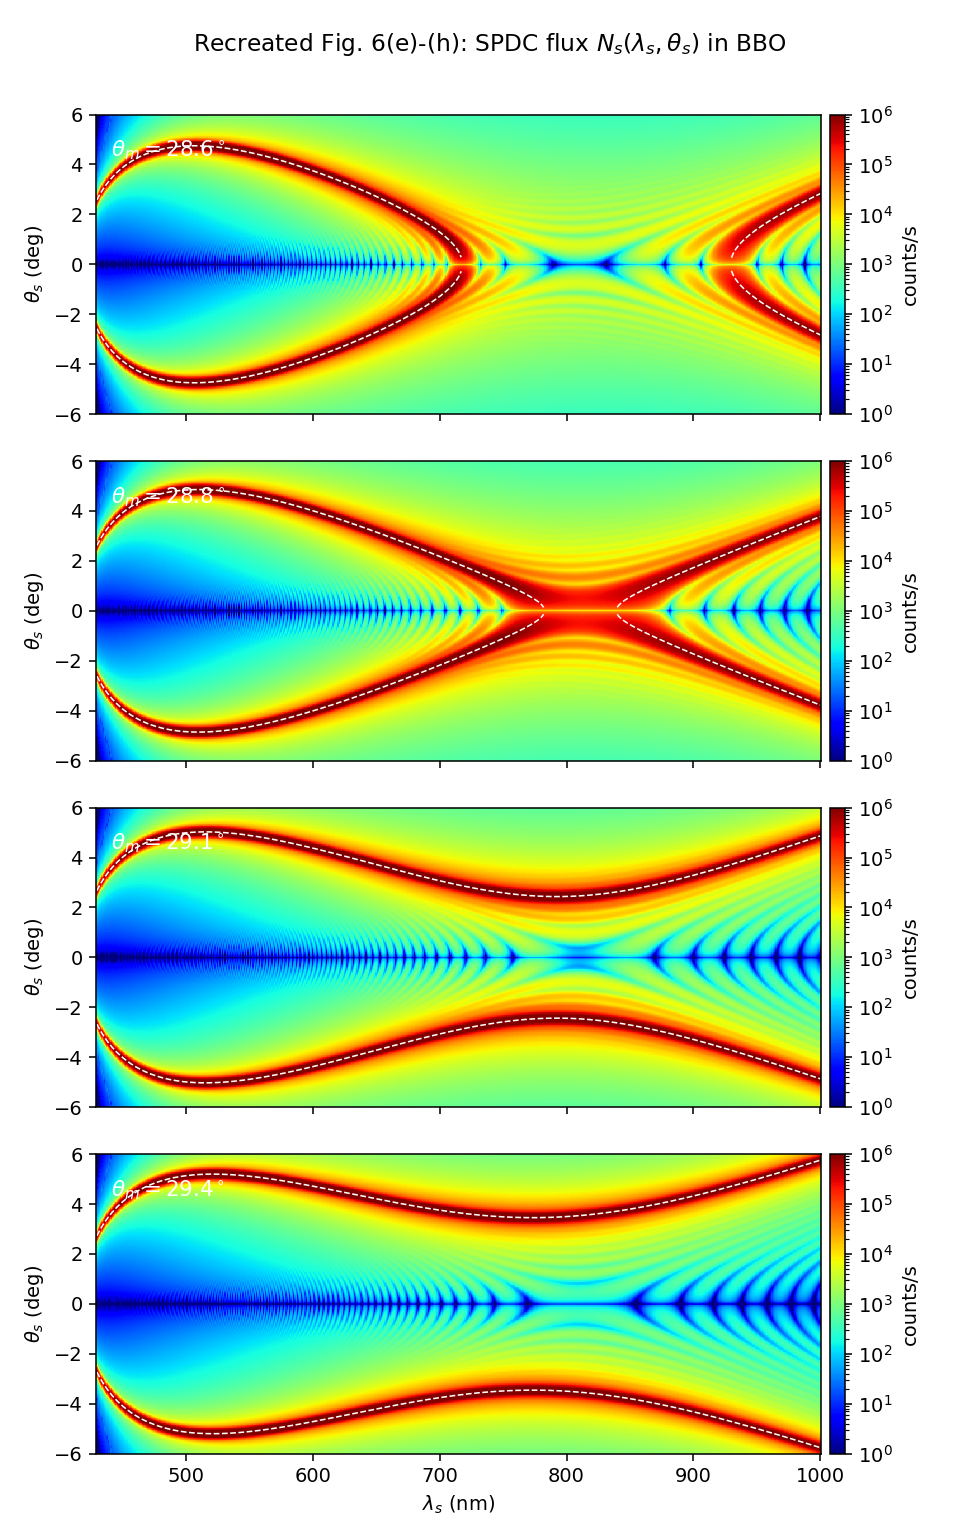
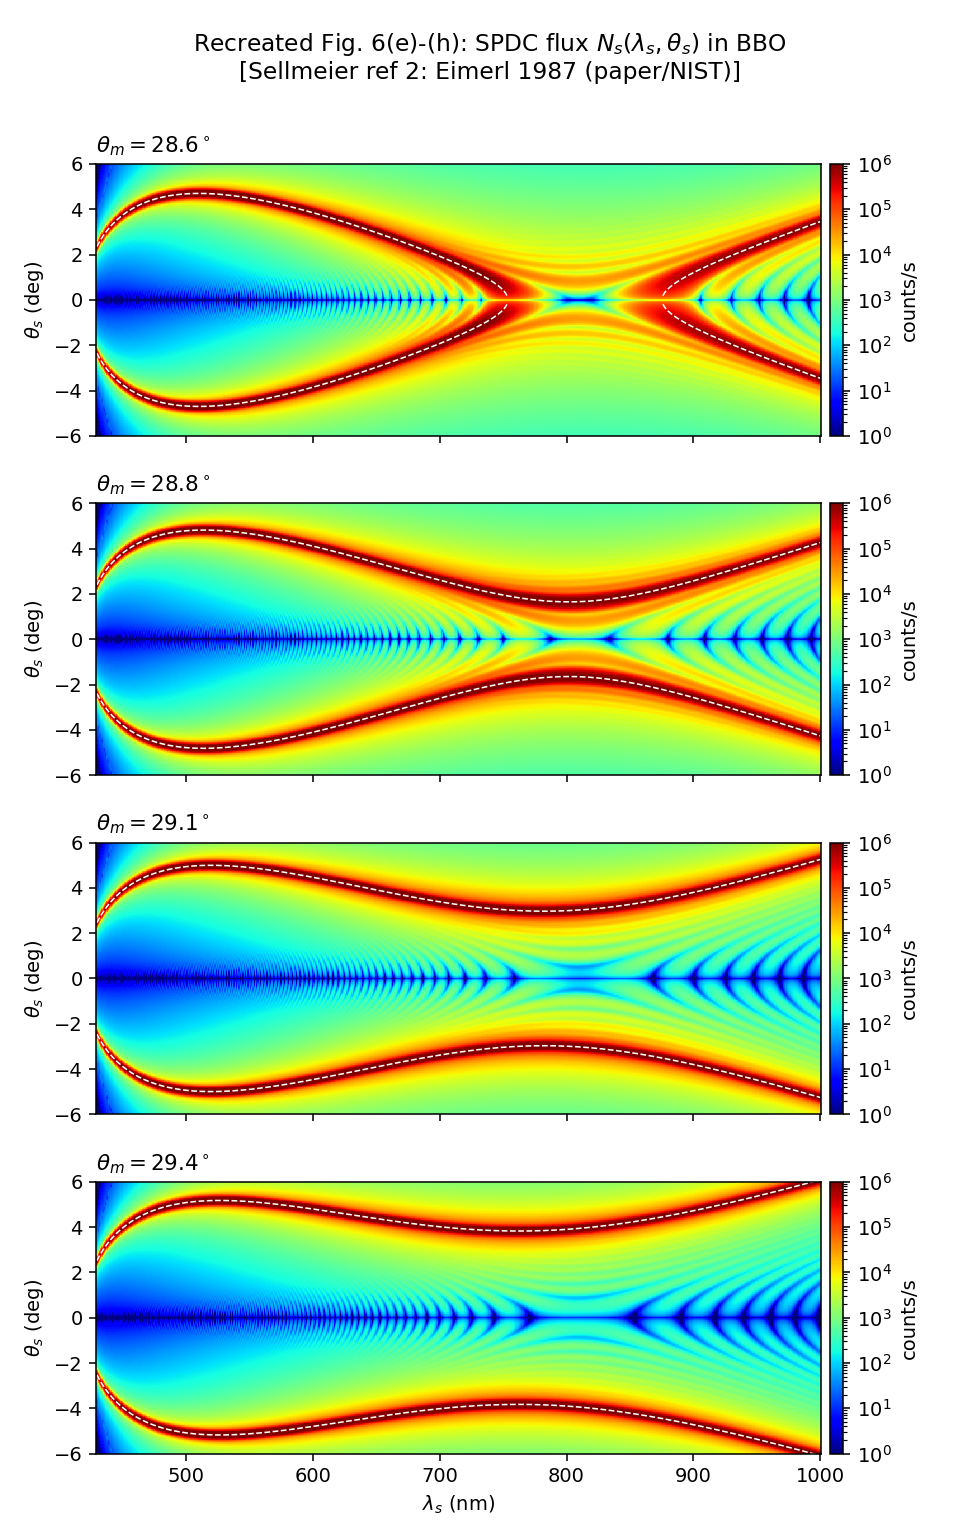
Calculations: selectable BBO Sellmeier refs + tee'd text summaries
Sellmeier: the paper's indices are Eimerl 1987 (via the NIST phase-matching
program, its refs [17]/[25]; confirmed by Table I np = 1.6612 to 5 digits),
not the Kato 1986 set used here -- this fully explains the Fig. 6(e)
discrepancy (28.6 deg collinear pair 754/875 nm vs 718/929 nm).
spdc_physics.py now holds both sets in SELLMEIER_REFS with use_sellmeier():
ref 1 Kato (default; agrees with Tamosauskas 2018 to ~1e-4 at 405/810 nm)
and ref 2 Eimerl (paper-matching). plot_fig6.py writes two variants --
spdc_fig6.png (Eimerl, matches the published panels) and spdc_fig6_kato.png;
theta_m labels moved to black titles above each panel. All other scripts
stay on Kato and reproduce their previous numbers exactly; every script
stamps the active set into its output.

textlog.py (2026-07-16): tee_stdout() context manager; each runnable
script's printed summary is also written to output/<figure>.txt.

diff --git a/calculations/src/spdc_physics.py b/calculations/src/spdc_physics.py
@@ -106,18 +106,62 @@ Np      = Pp / (hbar * omega_p)  # pump photon flux, /s (paper Fig. 6: 1.63e17)
 
 # ----------------------------------------------------------------------------
 # BBO refractive indices -- Sellmeier equations (lambda in MICROMETRES inside)
+#
+# Two selectable coefficient sets ("references"):
+#   ref 1, "kato"   -- Kato 1986 (IEEE JQE 22, 1013).  DEFAULT.  More accurate
+#                      at 405/810 nm: agrees with the modern measurement
+#                      (Tamosauskas et al. 2018, Opt. Mater. Express 8, 1410)
+#                      to ~1-2e-4 there, vs 5-10e-4 for Eimerl.
+#   ref 2, "eimerl" -- Eimerl et al. 1987 (J. Appl. Phys. 62, 1968).  What the
+#                      paper used, via the NIST noncollinear phase-matching
+#                      program (paper refs [17]/[25]); select it to reproduce
+#                      the paper's figures/labels (Fig. 6) exactly.
+# n^2 = A + B/(lam^2 - C) - D*lam^2, lam in um.
 # ----------------------------------------------------------------------------
+SELLMEIER_REFS = {
+    "kato":   {"no": (2.7359, 0.01878, 0.01822, 0.01354),
+               "ne": (2.3753, 0.01224, 0.01667, 0.01516),
+               "label": "Sellmeier ref 1: Kato 1986"},
+    "eimerl": {"no": (2.7405, 0.0184, 0.0179, 0.0155),
+               "ne": (2.3730, 0.0128, 0.0156, 0.0044),
+               "label": "Sellmeier ref 2: Eimerl 1987 (paper/NIST)"},
+}
+_SELLMEIER_ALIASES = {"kato": "kato", "eimerl": "eimerl", 1: "kato", 2: "eimerl",
+                      "1": "kato", "2": "eimerl"}
+_sellmeier = "kato"
+
+
+def use_sellmeier(ref):
+    """Select the Sellmeier coefficient set: 1/"kato" (default) or
+    2/"eimerl" (the paper's).  Returns the human-readable label."""
+    global _sellmeier
+    key = _SELLMEIER_ALIASES.get(ref if isinstance(ref, int) else str(ref).lower())
+    if key is None:
+        raise ValueError(f"unknown Sellmeier ref {ref!r}; use 1/'kato' or 2/'eimerl'")
+    _sellmeier = key
+    return sellmeier_label()
+
+
+def sellmeier_label():
+    """Label of the active Sellmeier set (for printing into script outputs)."""
+    return SELLMEIER_REFS[_sellmeier]["label"]
+
+
+def _sellmeier_n(lam, coeffs):
+    l2 = (lam * 1e6) ** 2
+    A, B, C, D = coeffs
+    return np.sqrt(A + B / (l2 - C) - D * l2)
+
+
 def n_o(lam):
-    """Ordinary index of BBO.  lam in metres."""
-    l = lam * 1e6
-    return np.sqrt(2.7359 + 0.01878 / (l**2 - 0.01822) - 0.01354 * l**2)
+    """Ordinary index of BBO (active Sellmeier set).  lam in metres."""
+    return _sellmeier_n(lam, SELLMEIER_REFS[_sellmeier]["no"])
 
 
 def n_e_principal(lam):
     """Principal extraordinary index of BBO (propagation at 90 deg to the
-    optic axis).  lam in metres."""
-    l = lam * 1e6
-    return np.sqrt(2.3753 + 0.01224 / (l**2 - 0.01667) - 0.01516 * l**2)
+    optic axis, active Sellmeier set).  lam in metres."""
+    return _sellmeier_n(lam, SELLMEIER_REFS[_sellmeier]["ne"])
 
 
 def n_eff(lam, theta_m):
@@ -362,6 +406,7 @@ def sanity_check():
     Ns_int = total(external=False, th_max_deg=7.5)    # internal angle (Eq. 9 variable)
 
     print("--- Sanity check (theta_m = 29.12 deg, Pp = 80 mW) ---")
+    print(f"  indices          : {sellmeier_label()}")
     print(f"  Np               = {Np:.3e} /s   (paper: 1.63e17)")
     print(f"  n_o(810 nm)      = {n_o(810e-9):.4f}   (paper: ~1.66)")
     print(f"  n_eff(405, th_m) = {n_eff(lam_p, theta_m):.4f} (paper Table I: ~1.660)")
@@ -372,4 +417,6 @@ def sanity_check():
 
 
 if __name__ == "__main__":
-    sanity_check()
+    from textlog import tee_stdout
+    with tee_stdout("sanity_check.txt"):
+        sanity_check()

diff --git a/calculations/src/textlog.py b/calculations/src/textlog.py
@@ -1,0 +1,41 @@
+"""
+textlog.py -- tee stdout into a text file in output/.
+
+Each runnable script wraps its __main__ body in `tee_stdout("<name>.txt")` so
+the printed summary (rates, angles, sanity numbers) is persisted next to the
+figures instead of living only in the terminal.  No physics here.
+"""
+
+import sys
+from contextlib import contextmanager
+from pathlib import Path
+
+OUTDIR = Path(__file__).resolve().parent.parent / "output"
+
+
+class _Tee:
+    """Write-through to several streams (terminal + log file)."""
+
+    def __init__(self, *streams):
+        self._streams = streams
+
+    def write(self, text):
+        for s in self._streams:
+            s.write(text)
+
+    def flush(self):
+        for s in self._streams:
+            s.flush()
+
+
+@contextmanager
+def tee_stdout(filename):
+    """Duplicate everything printed inside the block into output/<filename>."""
+    path = OUTDIR / filename
+    with open(path, "w", encoding="utf-8") as f:
+        orig = sys.stdout
+        sys.stdout = _Tee(orig, f)
+        try:
+            yield path
+        finally:
+            sys.stdout = orig

diff --git a/calculations/src/plot_fig6.py b/calculations/src/plot_fig6.py
@@ -8,12 +8,17 @@ perfect-phase-matching tuning curve overlaid as a white dashed line
 paper's y-axis.
 
 All physics (Eq. 9 flux, Sellmeier, tuning curve) lives in
-spdc_physics.py.  Writes spdc_fig6.png.
+spdc_physics.py.  Writes TWO variants:
 
-Note: with our Sellmeier coefficients the collinear-degenerate point
-(810 nm at theta_s = 0) lands at theta_m ~ 28.82 deg vs the paper's 28.6 deg
-(the paper used a NIST index program) -- a ~0.2 deg label offset; the physics
-is unchanged.
+  spdc_fig6.png      -- Eimerl 1987 indices (Sellmeier ref 2), the set the
+                        paper used via the NIST program; matches the paper's
+                        panels/labels exactly (e.g. 28.6 deg collinear pair
+                        at ~750/875 nm).
+  spdc_fig6_kato.png -- Kato 1986 indices (Sellmeier ref 1, the library
+                        default; more accurate at 405/810 nm).  Collinear
+                        degeneracy sits at theta_m ~ 28.82 deg vs Eimerl's
+                        28.67 deg, so the same theta_m labels give visibly
+                        different maps near degeneracy.
 """
 
 from pathlib import Path
@@ -62,18 +67,26 @@ def make_figure(lam_min=430e-9, lam_max=1000e-9, dlam=1e-9,
 
         ax.set_ylabel(r"$\theta_s$ (deg)")
         ax.set_ylim(-th_max_deg, th_max_deg)
-        ax.text(0.02, 0.86, rf"$\theta_m = {tm_deg:.1f}^\circ$",
-                transform=ax.transAxes, color="white", fontsize=11)
+        ax.set_title(rf"$\theta_m = {tm_deg:.1f}^\circ$",
+                     loc="left", fontsize=11)
         fig.colorbar(pcm, ax=ax, pad=0.01, label="counts/s")
 
     axes[-1].set_xlabel(r"$\lambda_s$ (nm)")
-    fig.suptitle("Recreated Fig. 6(e)-(h): SPDC flux $N_s(\\lambda_s,\\theta_s)$ in BBO",
-                 fontsize=12)
+    fig.suptitle("Recreated Fig. 6(e)-(h): SPDC flux $N_s(\\lambda_s,\\theta_s)$ in BBO"
+                 f"\n[{phys.sellmeier_label()}]", fontsize=12)
     fig.tight_layout(rect=[0, 0, 1, 0.98])
     fig.savefig(fname, dpi=140)
-    print(f"saved {fname}")
+    print(f"saved {fname}   [{phys.sellmeier_label()}]")
 
 
 if __name__ == "__main__":
-    phys.sanity_check()
-    make_figure()
+    from textlog import tee_stdout
+    with tee_stdout("spdc_fig6.txt"):
+        phys.sanity_check()
+        # Main figure with the paper's indices (Eimerl, ref 2) so it matches
+        # the published panels; second variant with the more accurate default
+        # set (Kato, ref 1) for comparison.
+        phys.use_sellmeier("eimerl")
+        make_figure()
+        phys.use_sellmeier("kato")
+        make_figure(fname=OUTDIR / "spdc_fig6_kato.png")

diff --git a/calculations/src/coincidence_counts.py b/calculations/src/coincidence_counts.py
@@ -222,6 +222,7 @@ def main():
     s_check = eta_a * coincidence_rate(cut, lam, w_a, dlam, geom_open)
 
     print("--- Two-detector setup (arms at +/-%.2f deg) ---" % ARM_A["theta_deg"])
+    print(f"  indices: {phys.sellmeier_label()}")
     print(f"  pump {LAM_P*1e9:.0f} nm, {dc.PP*1e3:.0f} mW, W = {dc.W_PUMP*1e3:.1f} mm; "
           f"BBO L = {dc.L_CRY*1e3:.2f} mm; ideal cut theta_m = {cut:.3f} deg")
     for name, arm in (("A", ARM_A), ("B", ARM_B)):
@@ -295,4 +296,6 @@ def main():
 
 
 if __name__ == "__main__":
-    main()
+    from textlog import tee_stdout
+    with tee_stdout("coincidence_scan.txt"):
+        main()

diff --git a/calculations/src/detector_counts.py b/calculations/src/detector_counts.py
@@ -187,6 +187,7 @@ def main():
 
     r, D = APERTURE / 2, DIST_DET
     print("--- Setup ---")
+    print(f"  indices: {phys.sellmeier_label()}")
     print(f"  pump {LAM_P*1e9:.0f} nm, {PP*1e3:.0f} mW, W = {W_PUMP*1e3:.1f} mm"
           f" (1/e^2 radius);  BBO L = {L_CRY*1e3:.2f} mm, deff = {DEFF*1e12:.2f} pm/V")
     print(f"  detector: theta_s = {THETA_S_DEG:.2f} deg, D = {D*1e3:.0f} mm, "
@@ -244,4 +245,6 @@ def main():
 
 
 if __name__ == "__main__":
-    main()
+    from textlog import tee_stdout
+    with tee_stdout("detector_scan_mysetup.txt"):
+        main()

diff --git a/calculations/src/plot_detector_scan.py b/calculations/src/plot_detector_scan.py
@@ -89,4 +89,7 @@ def run(theta_det_deg=3.0, dth_det=2e-3, theta_m_cut=None,
 
 
 if __name__ == "__main__":
-    run()
+    from textlog import tee_stdout
+    with tee_stdout("detector_scan.txt"):
+        print(f"indices: {com.phys.sellmeier_label()}")
+        run()

diff --git a/calculations/src/plot_detector_scan_bandpass.py b/calculations/src/plot_detector_scan_bandpass.py
@@ -99,4 +99,7 @@ def run(theta_det_deg=3.0, dth_det=2e-3, theta_m_cut=None,
 
 
 if __name__ == "__main__":
-    run()
+    from textlog import tee_stdout
+    with tee_stdout("detector_scan_bandpass.txt"):
+        print(f"indices: {com.phys.sellmeier_label()}")
+        run()

diff --git a/calculations/CLAUDE.md b/calculations/CLAUDE.md
@@ -24,9 +24,19 @@ root or `python plot_fig6.py` from inside `src/`. Run
 
 ## Files
 
+- **`src/textlog.py`** — `tee_stdout(filename)` context manager (no physics):
+  every runnable script wraps its `__main__` body in it, so the printed
+  summary (rates, angles, sanity numbers) is ALSO written to a txt in
+  `output/`, named after the script's figure: `sanity_check.txt`
+  (spdc_physics), `spdc_fig6.txt`, `detector_scan.txt`,
+  `detector_scan_bandpass.txt`, `detector_scan_mysetup.txt`
+  (detector_counts), `coincidence_scan.txt` (coincidence_counts).
+  Added 2026-07-16; figures/raw arrays are deliberately not duplicated there.
 - **`src/spdc_physics.py`** — the physics library; all constants and physics
   live here, the plot scripts contain none. Defines the SI constants, experiment
-  parameters, BBO Sellmeier (`n_o`, `n_e_principal`, `n_eff`), `sinc`, `Np`,
+  parameters, the two selectable BBO Sellmeier sets (`SELLMEIER_REFS`,
+  `use_sellmeier`, `sellmeier_label`, `n_o`, `n_e_principal`, `n_eff`;
+  see "Indices" section — default Kato, ref 2 Eimerl = the paper's), `sinc`, `Np`,
   the unified flux `Ns(lam_s, theta_s, ...)` (numpy-broadcasts λs against θs,
   so one function serves both the Fig. 6 maps and the detector scans; keyword
   options: `external` angle convention, `Nxi` quadrature points, `lam_i_max`
@@ -44,9 +54,12 @@ root or `python plot_fig6.py` from inside `src/`. Run
   `spectra_vs_thetam` (the θm × λ count matrix every panel derives from),
   `rotation_axes` (α axis + θm secondary-axis interpolators),
   `two_order_crossings`, `summarize`, `draw_panel`.
-- **`src/plot_fig6.py`** — Fig. 6 recreation. Writes `output/spdc_fig6.png`:
-  the four stacked log-scale λs–θs maps Fig. 6(e)–(h) with white-dashed
-  perfect-phase-matching tuning curves. Also runs the sanity check first.
+- **`src/plot_fig6.py`** — Fig. 6 recreation: the four stacked log-scale
+  λs–θs maps Fig. 6(e)–(h) with white-dashed perfect-phase-matching tuning
+  curves. Runs the sanity check first, then writes TWO variants (Sellmeier
+  set stamped in the suptitle): `output/spdc_fig6.png` with Eimerl (ref 2,
+  the paper's indices — matches the published panels exactly) and
+  `output/spdc_fig6_kato.png` with the default Kato (ref 1).
 - **`src/plot_detector_scan.py`** — fixed detector at external angle θs = 3°,
   rotate the crystal, plot wavelength-integrated count vs crystal rotation
   angle α. Two panels: broadband + hard 805–815 nm top-hat. Writes
@@ -167,9 +180,20 @@ the main-text Eq.(7):
 
 - Signal & idler ordinary: `ns = no(λs)`, `ni = no(λi)`. Pump effective
   extraordinary (Eq. 4): `np = n_eff(θm,λp) = [cos²θm/no² + sin²θm/ne²]^(−½)`.
-- BBO Sellmeier (λ in µm):
-  - `no² = 2.7359 + 0.01878/(λ²−0.01822) − 0.01354·λ²`
-  - `ne² = 2.3753 + 0.01224/(λ²−0.01667) − 0.01516·λ²`
+- BBO Sellmeier (λ in µm) — TWO selectable sets in `SELLMEIER_REFS`
+  (`use_sellmeier(1/"kato" | 2/"eimerl")`, added 2026-07-17; every script
+  prints the active set via `sellmeier_label()` into its teed txt):
+  - **ref 1 "kato" (DEFAULT — used everywhere except the paper-matching
+    Fig. 6)**: Kato 1986, `no² = 2.7359 + 0.01878/(λ²−0.01822) − 0.01354·λ²`,
+    `ne² = 2.3753 + 0.01224/(λ²−0.01667) − 0.01516·λ²`. More accurate: agrees
+    with Tamošauskas 2018 (Opt. Mater. Express 8, 1410 — the modern
+    0.188–5.2 µm measurement) to ~1–2e−4 at 405/810 nm.
+  - **ref 2 "eimerl"**: Eimerl 1987, `no² = 2.7405 + 0.0184/(λ²−0.0179)
+    − 0.0155·λ²`, `ne² = 2.3730 + 0.0128/(λ²−0.0156) − 0.0044·λ²`. This is
+    what the PAPER used (via the NIST phase-matching program, its refs
+    [17]/[25]; confirmed against NIST Fortran source and Table I's np =
+    1.6612 = n_eff(405, 28.6°) to 5 digits). 5–10e−4 off Tamošauskas at
+    405/810 nm — select it only to reproduce the paper's figures/labels.
 - Constants/params: ħ = 1.054571817e−34 J·s; ε0 = 8.8541878188e−12 F/m;
   c = 2.99792458e8 m/s; deff = 1.75 pm/V; L = 3 mm; λp = 405 nm; Pp = 80 mW ⟹
   Np = Pp/(ħ·ωp) = 1.63e17 /s.
@@ -186,9 +210,12 @@ the main-text Eq.(7):
 - Total degenerate flux 2Ns ≈ 4.2e7 /s at Pp = 80 mW (code gives 4.44e7).
 - Fig. 6 phase-matching angles θm = 28.6°, 28.8°, 29.1°, 29.4°;
   λs ≈ 430–1000 nm, θs ≈ −6°…+6°, color on log scale.
-- Note: collinear-degenerate (810 nm at θ=0) lands at θm ≈ 28.82° with this
-  Sellmeier vs the paper's 28.6° (paper used a NIST index program) — a ~0.2°
-  label offset; the physics is correct.
+- Note: collinear-degenerate (810 nm at θ=0) lands at θm ≈ 28.82° with Kato
+  (ref 1) vs 28.67° with Eimerl (ref 2, the paper's set; Tamošauskas 2018
+  gives 28.85°). The paper's θm labels carry Eimerl's ~0.18° error — with
+  Eimerl selected, the 28.6° panel's θs=0 pair is 754/875 nm (matches the
+  paper's Fig. 6(e)); with Kato it is 718/929 nm. Resolved 2026-07-17
+  (previously described here as an unexplained "~0.2° label offset").
 
 ## Detector-scan analysis — key physical findings
 